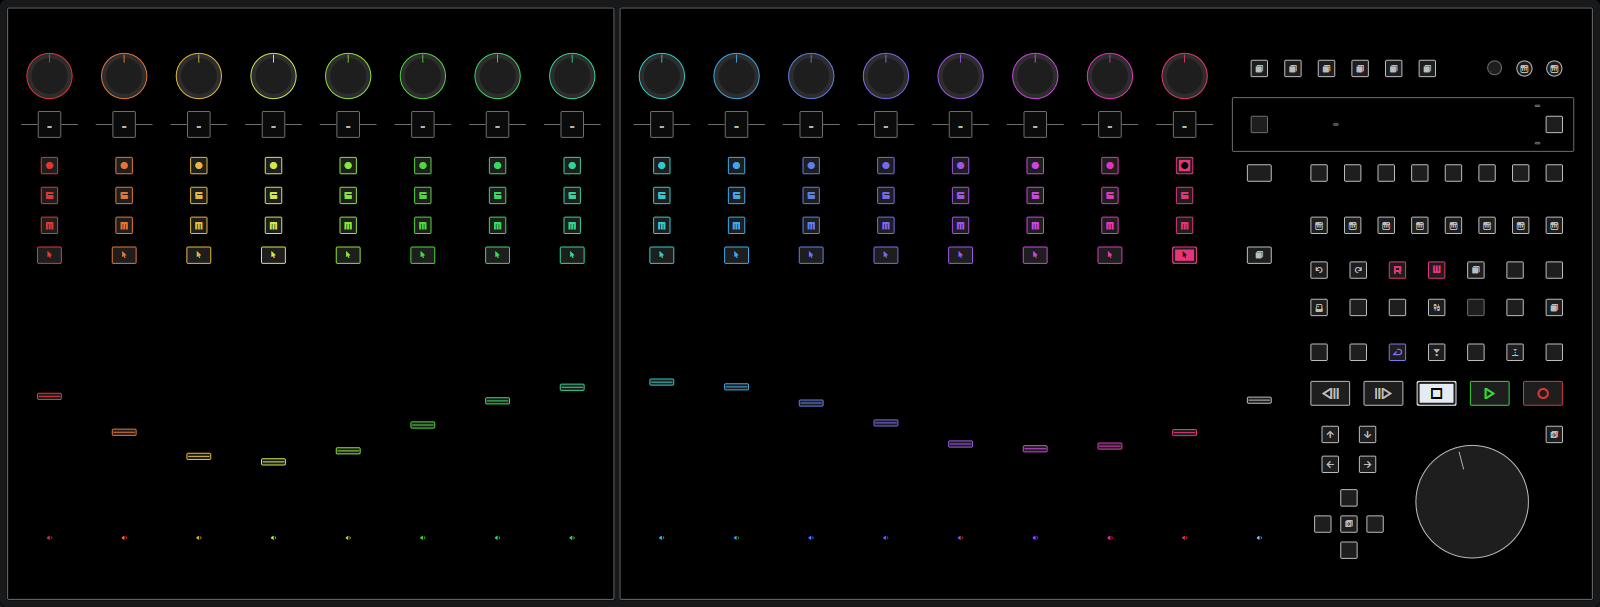
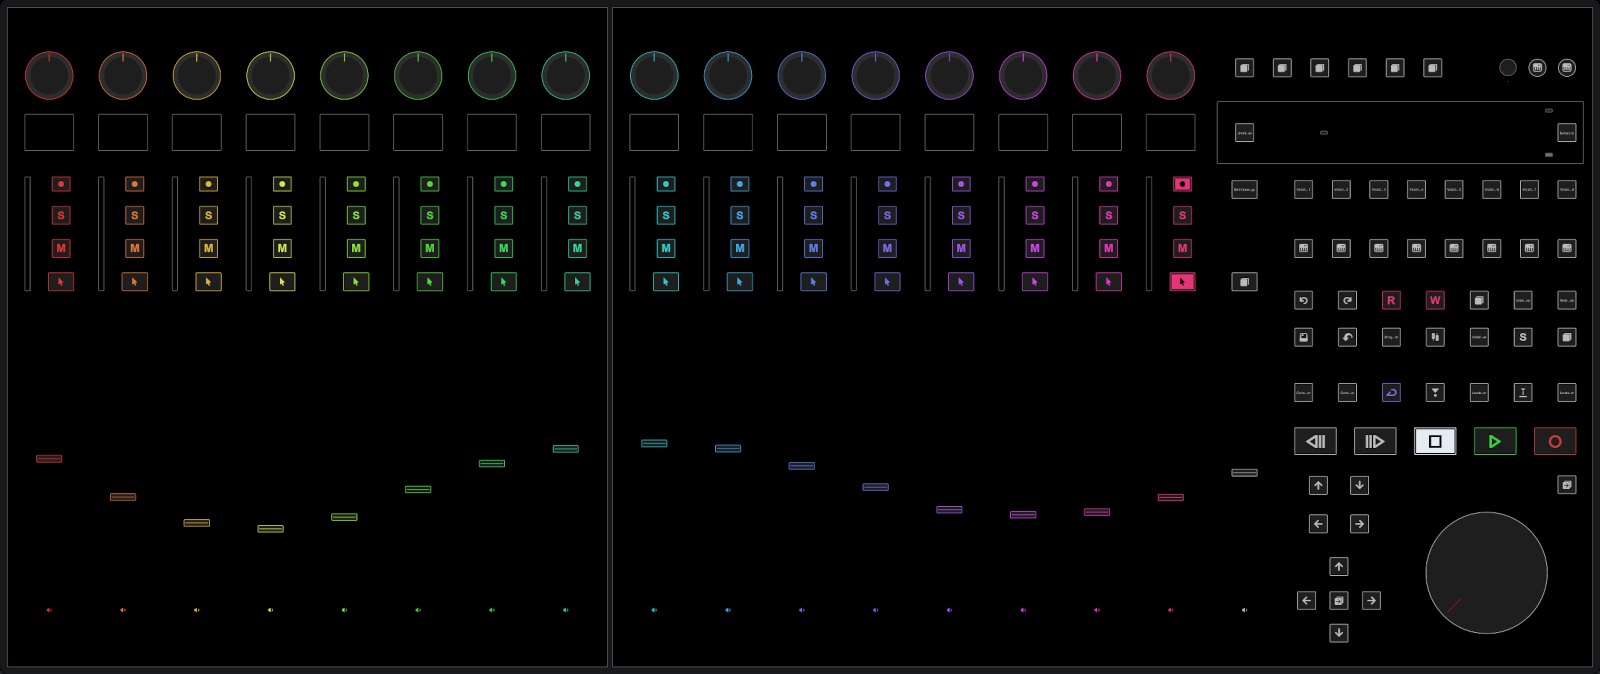
feat(X-Touch): Enhance device surface layout to match the CGI product image

diff --git a/src/device-configs/behringer_xtouch.ts b/src/device-configs/behringer_xtouch.ts
@@ -9,7 +9,7 @@ import { DecoratedDeviceSurface } from "../decorators/surface";
 
 const channelWidth = 5;
 const channelElementsWidth = 8 * channelWidth;
-const surfaceHeight = 40;
+const surfaceHeight = 45;
 
 function makeSquareButton(surface: DecoratedDeviceSurface, x: number, y: number) {
   return surface.makeLedButton(x + 0.25, y, 1.5, 1.5);
@@ -19,25 +19,33 @@ function makeChannelElements(surface: DecoratedDeviceSurface, x: number): Channe
   return createElements(8, (index) => {
     const currentChannelXPosition = x + index * channelWidth;
     const encoder = surface.makeLedPushEncoder(currentChannelXPosition + 1, 3, 4, 4);
+    const selectButton = surface.makeLedButton(2 + currentChannelXPosition + 0.8, 18, 2, 1.5);
+
+    // Channel meter
+    surface.makeBlindPanel(currentChannelXPosition + 1.2, 11.5, 0.65, 8);
+
+    // Scribble strip
+    surface.makeBlindPanel(currentChannelXPosition + 1.2, 7.25, 3.6, 2.75);
+    surface.makeLabelField(currentChannelXPosition + 1.4, 7.45, 3.2, 1.175).relateTo(encoder);
+    surface
+      .makeLabelField(currentChannelXPosition + 1.4, 7.45 + 1.175, 3.2, 1.175)
+      .relateTo(selectButton);
 
     return {
       index,
       encoder,
       scribbleStrip: {
-        encoderLabel: surface
-          .makeLabelField(currentChannelXPosition + 1, 7, 4, 2)
-          .relateTo(encoder),
         trackTitle: surface.makeCustomValueVariable("scribbleStripTrackTitle"),
       },
       vuMeter: surface.makeCustomValueVariable("vuMeter"),
       buttons: {
-        record: makeSquareButton(surface, 2 + currentChannelXPosition, 10),
-        solo: makeSquareButton(surface, 2 + currentChannelXPosition, 12),
-        mute: makeSquareButton(surface, 2 + currentChannelXPosition, 14),
-        select: surface.makeLedButton(2 + currentChannelXPosition, 16, 2, 1.5),
+        record: surface.makeLedButton(currentChannelXPosition + 2.25 + 0.8, 11.5, 1.5, 1.25),
+        solo: makeSquareButton(surface, 2 + currentChannelXPosition + 0.8, 13.5),
+        mute: makeSquareButton(surface, 2 + currentChannelXPosition + 0.8, 15.75),
+        select: selectButton,
       },
 
-      fader: surface.makeTouchSensitiveFader(2 + currentChannelXPosition, 20, 2, 16),
+      fader: surface.makeTouchSensitiveFader(2 + currentChannelXPosition, 24.1, 2, 17.15),
     };
   });
 }
@@ -64,7 +72,7 @@ export const deviceConfig: DeviceConfig = {
   },
 
   createMainSurface(surface, x) {
-    const surfaceWidth = channelElementsWidth + 25.5;
+    const surfaceWidth = channelElementsWidth + 26.75;
 
     // Device frame
     surface.makeBlindPanel(x, 0, surfaceWidth, surfaceHeight);
@@ -72,13 +80,13 @@ export const deviceConfig: DeviceConfig = {
     const channelElements = makeChannelElements(surface, x);
     x += channelElementsWidth;
 
-    surface.makeBlindPanel(x + 1, 6, 23.25, 4); // Time display
+    surface.makeBlindPanel(x + 1, 6.4, 25.1, 4.5); // Time display
 
     const miscControlButtons = createElements(21, (index) =>
       makeSquareButton(
         surface,
-        x + 6 + (index % 7) * 2.625,
-        17 + Math.floor(index / 7) * 2.5 + (index < 14 ? 0 : 0.5)
+        x + 6 + (index % 7) * 2.975,
+        19.25 + Math.floor(index / 7) * 2.5 + (index < 14 ? 0 : 1.25)
       )
     );
 
@@ -86,25 +94,25 @@ export const deviceConfig: DeviceConfig = {
       width: surfaceWidth,
       channelElements,
       controlSectionElements: {
-        mainFader: surface.makeTouchSensitiveFader(x + 2, 20, 2, 16),
+        mainFader: surface.makeTouchSensitiveFader(x + 2, 24.1, 2, 17.15),
 
-        jogWheel: surface.makeJogWheel(x + 13, 29.25, 8.5, 8.5),
+        jogWheel: surface.makeJogWheel(x + 14.9, 34.2, 9, 9),
 
         buttons: {
-          display: makeSquareButton(surface, x + 2, 7.25),
-          timeMode: makeSquareButton(surface, x + 21.75, 7.25),
-          edit: surface.makeLedButton(x + 2, 10.5, 2, 1.5),
-          flip: surface.makeLedButton(x + 2, 16, 2, 1.5),
-          scrub: makeSquareButton(surface, x + 21.75, 28),
+          display: makeSquareButton(surface, x + 2, 7.9),
+          timeMode: makeSquareButton(surface, x + 23.85, 7.9),
+          edit: surface.makeLedButton(x + 2, 11.75, 2, 1.5),
+          flip: surface.makeLedButton(x + 2, 18, 2, 1.5),
+          scrub: makeSquareButton(surface, x + 23.85, 31.75),
 
           encoderAssign: createElements(6, (index) =>
-            makeSquareButton(surface, x + 2 + index * 2.25, 3.5)
+            makeSquareButton(surface, x + 2 + index * 2.55, 3.5)
           ),
           number: createElements(8, (index) =>
-            makeSquareButton(surface, x + 6 + index * 2.25, 10.5)
+            makeSquareButton(surface, x + 6 + index * 2.55, 11.75)
           ),
           function: createElements(8, (index) =>
-            makeSquareButton(surface, x + 6 + index * 2.25, 14)
+            makeSquareButton(surface, x + 6 + index * 2.55, 15.75)
           ),
           modify: getArrayElements(miscControlButtons, [0, 1, 7, 8]),
           automation: getArrayElements(miscControlButtons, [2, 3, 4, 9, 10, 11]),
@@ -112,38 +120,38 @@ export const deviceConfig: DeviceConfig = {
           transport: [
             ...miscControlButtons.slice(14),
             ...createElements(5, (index) =>
-              surface.makeLedButton(x + 6.25 + index * 3.56, 25, 3, 2)
+              surface.makeLedButton(x + 6.25 + index * 4.0625, 28.5, 3.1, 2.1)
             ),
           ],
 
           navigation: {
             bank: {
-              left: makeSquareButton(surface, x + 6.75, 28),
-              right: makeSquareButton(surface, x + 9.25, 28),
+              left: makeSquareButton(surface, x + 7, 31.8),
+              right: makeSquareButton(surface, x + 9.8, 31.8),
             },
             channel: {
-              left: makeSquareButton(surface, x + 6.75, 30),
-              right: makeSquareButton(surface, x + 9.25, 30),
+              left: makeSquareButton(surface, x + 7, 34.4),
+              right: makeSquareButton(surface, x + 9.8, 34.4),
             },
             directions: {
-              left: makeSquareButton(surface, x + 6.25, 34),
-              right: makeSquareButton(surface, x + 9.75, 34),
-              up: makeSquareButton(surface, x + 8, 32.25),
-              center: makeSquareButton(surface, x + 8, 34),
-              down: makeSquareButton(surface, x + 8, 35.75),
+              left: makeSquareButton(surface, x + 6.2, 39.6),
+              right: makeSquareButton(surface, x + 10.6, 39.6),
+              up: makeSquareButton(surface, x + 8.4, 37.3),
+              center: makeSquareButton(surface, x + 8.4, 39.6),
+              down: makeSquareButton(surface, x + 8.4, 41.8),
             },
           },
         },
 
         displayLeds: {
-          smpte: surface.makeDecoratedLamp(x + 21.25, 6.5, 0.75, 0.5),
-          beats: surface.makeDecoratedLamp(x + 21.25, 9, 0.75, 0.5),
-          solo: surface.makeDecoratedLamp(x + 7.75, 7.75, 0.75, 0.5),
+          smpte: surface.makeDecoratedLamp(x + 23.25, 6.9, 0.75, 0.5),
+          beats: surface.makeDecoratedLamp(x + 23.25, 9.9, 0.75, 0.5),
+          solo: surface.makeDecoratedLamp(x + 8, 8.4, 0.75, 0.5),
         },
 
-        expressionPedal: surface.makeKnob(x + 18, 3.5, 1.5, 1.9),
+        expressionPedal: surface.makeKnob(x + 20.1, 3.5, 1.5, 1.9),
         footSwitches: createElements(2, (index) =>
-          surface.makeButton(x + 20 + index * 2, 3.5, 1.5, 1.5).setShapeCircle()
+          surface.makeButton(x + 22.1 + index * 2, 3.5, 1.5, 1.5).setShapeCircle()
         ),
       },
     };

diff --git a/src/device-configs/icon_qcon-pro-g2.ts b/src/device-configs/icon_qcon-pro-g2.ts
@@ -21,15 +21,14 @@ function makeSquareButton(surface: DecoratedDeviceSurface, x: number, y: number)
 function makeChannelElements(surface: DecoratedDeviceSurface, x: number): ChannelSurfaceElements[] {
   return createElements(8, (index) => {
     const currentChannelXPosition = x + index * channelWidth;
+
     const encoder = surface.makeLedPushEncoder(3.1 + currentChannelXPosition, 8.8, 3.6, 3.6);
+    surface.makeLabelField(3.1 + currentChannelXPosition, 3, 3.75, 2).relateTo(encoder);
 
     return {
       index,
       encoder,
       scribbleStrip: {
-        encoderLabel: surface
-          .makeLabelField(3.1 + currentChannelXPosition, 3, 3.75, 2)
-          .relateTo(encoder),
         trackTitle: surface.makeCustomValueVariable("scribbleStripTrackTitle"),
       },
       vuMeter: surface.makeCustomValueVariable("vuMeter"),

diff --git a/src/device-configs/mackie_mcu-pro.ts b/src/device-configs/mackie_mcu-pro.ts
@@ -29,12 +29,12 @@ function makeChannelElements(surface: DecoratedDeviceSurface, x: number): Channe
     const currentChannelXPosition = x + index * channelWidth;
 
     const encoder = surface.makeLedPushEncoder(currentChannelXPosition, 16.25, 4, 4);
+    surface.makeLabelField(currentChannelXPosition, 7, 4, 2).relateTo(encoder);
 
     return {
       index,
       encoder,
       scribbleStrip: {
-        encoderLabel: surface.makeLabelField(currentChannelXPosition, 7, 4, 2).relateTo(encoder),
         trackTitle: surface.makeCustomValueVariable("scribbleStripTrackTitle"),
       },
       vuMeter: surface.makeCustomValueVariable("vuMeter"),

diff --git a/src/device-configs/index.ts b/src/device-configs/index.ts
@@ -17,7 +17,6 @@ export interface ChannelSurfaceElements {
   index: number;
   encoder: LedPushEncoder;
   scribbleStrip: {
-    encoderLabel: MR_SurfaceLabelField;
     trackTitle: MR_SurfaceCustomValueVariable;
   };
   vuMeter: MR_SurfaceCustomValueVariable;
